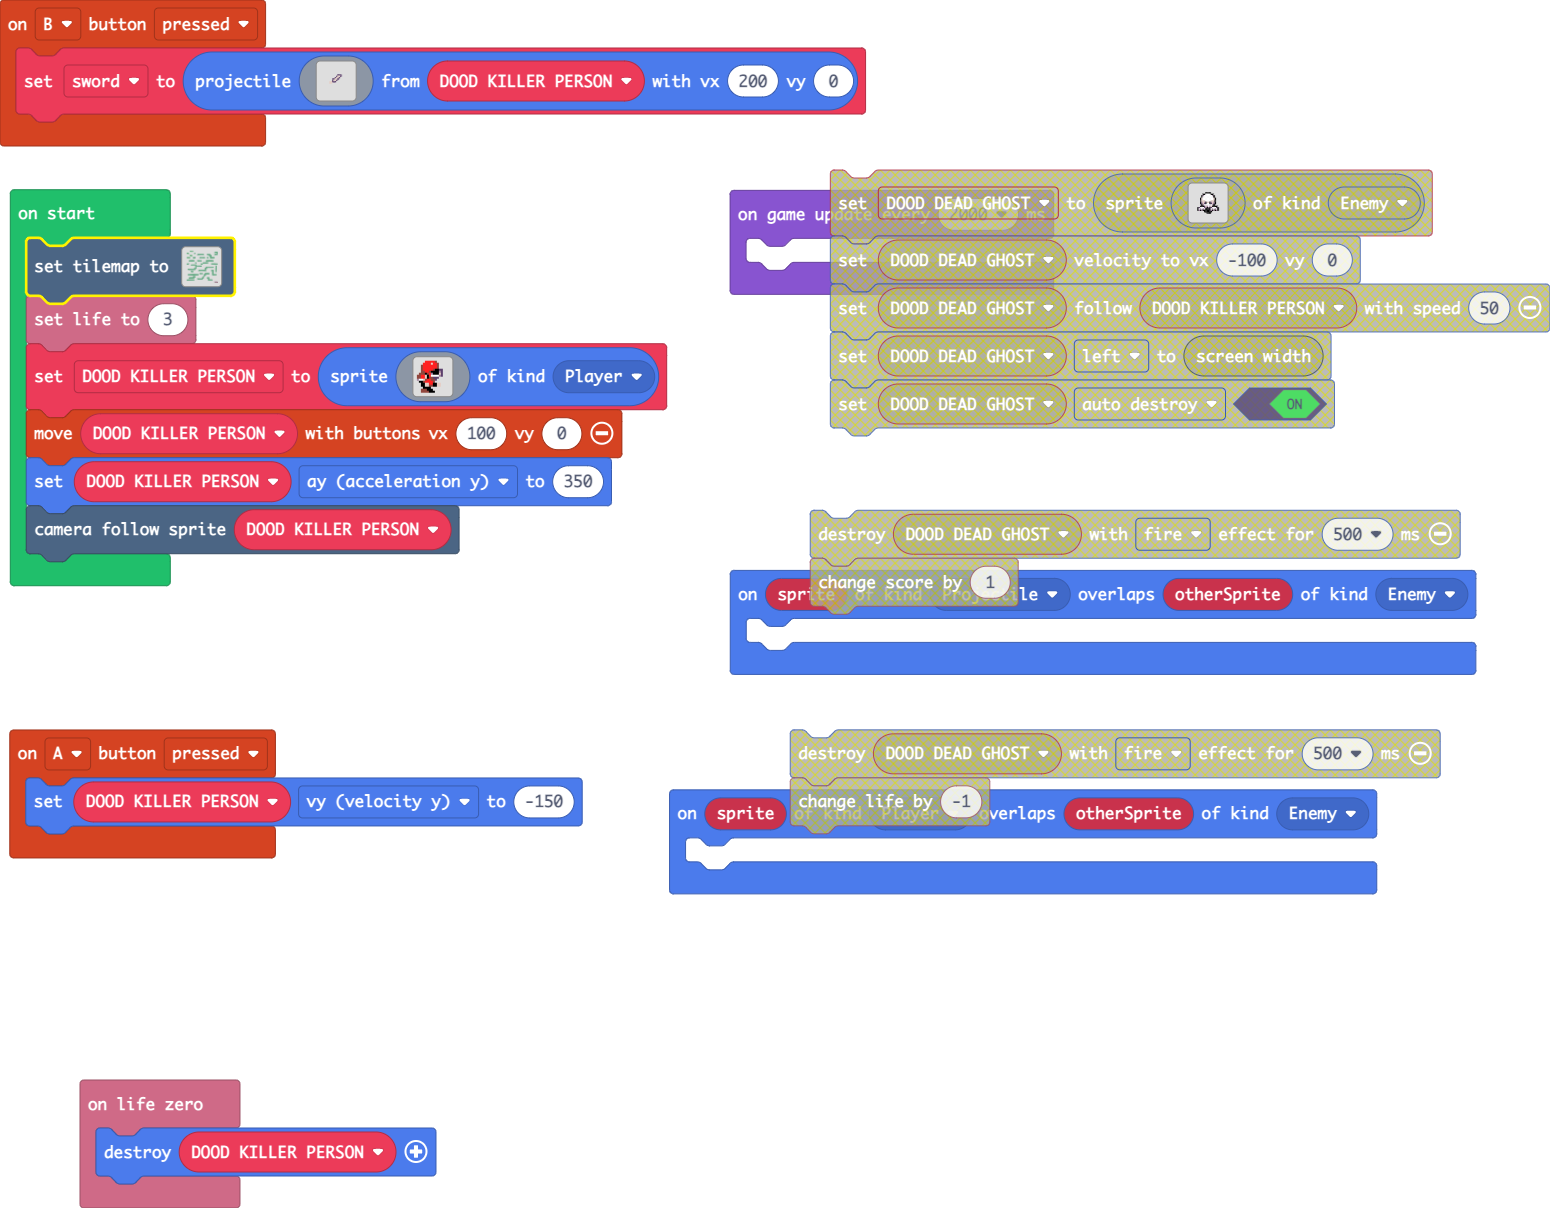
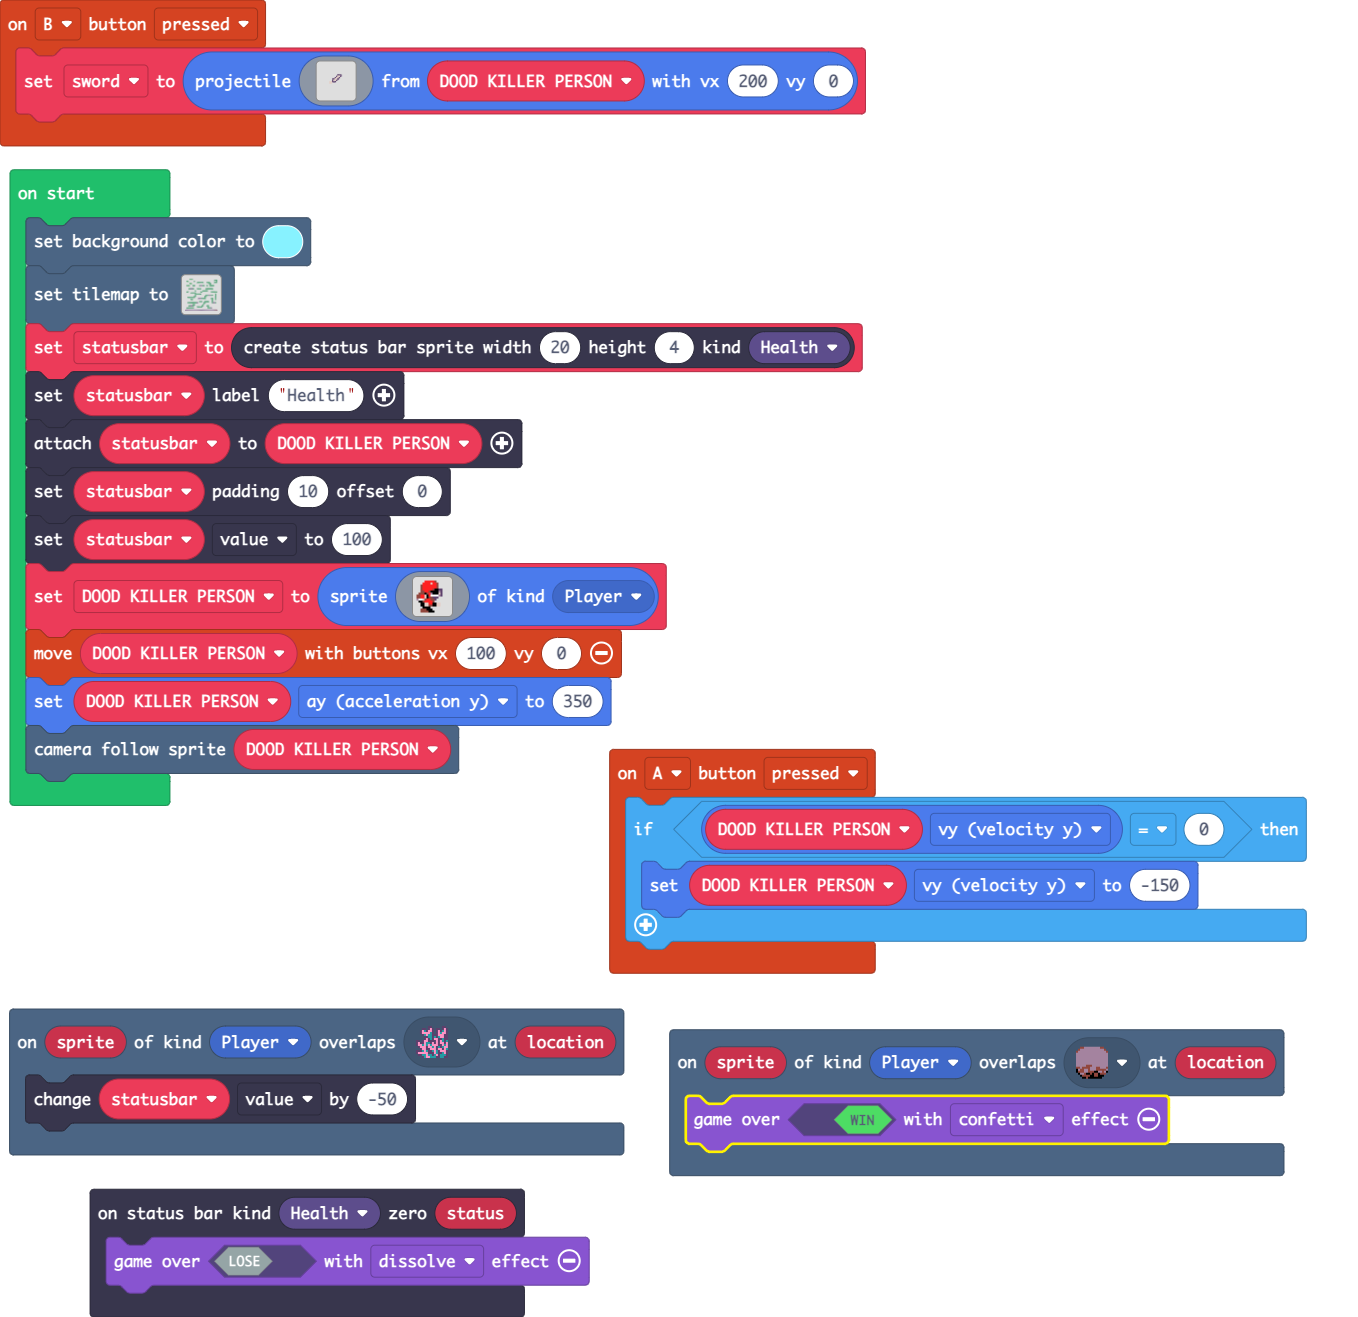
Update pxt.json, main.blocks, main.ts, tilemap.g.jres, tilemap.g.ts, images.g.jres, images.g.ts

diff --git a/tilemap.g.ts b/tilemap.g.ts
@@ -6,38 +6,38 @@ namespace myTiles {
     helpers._registerFactory("tilemap", function(name: string) {
         switch(helpers.stringTrim(name)) {
             case "level1":
[2 lines of base64/hex data omitted]
 ....222.......................
 ...........................222
 .22.....2....................2
-...........222222...222....222
+...........222..2...222....222
 ....22................22......
 .......................2......
-.222...22....22222..2..2222...
+.222...22....2..22..2..2222...
 ..............................
 ..............................
-...22222...2222....2222222....
+...22..2...2222....222........
 ..............................
 .........2......22222.........
 .22...........22........222222
 .....22222....................
-.........222222.............2.
-.........2.........2222222..2.
+.........2..................2.
+.........2.........222..22..2.
 ........22........22........2.
-..2222222.........2.........2.
-............2222222.....22..2.
+..22....2.........2.........2.
+...............2222.....22..2.
 .....22..................2..2.
 .........................2....
-.............222..2222...2....
-..2222222222.....22......2222.
+.............222....22...2....
+..22...222.......2.......2..2.
 .................2............
 .......22.......2.............
-...22222.......22...22........
+...22..2.......22...22........
 ...........22222.....2........
-.2222222.............2222.....
+.2222222.............222......
 ..............................
 ..............................
-`, [myTiles.transparency16,sprites.builtin.forestTiles1,sprites.builtin.forestTiles2,sprites.builtin.forestTiles3,sprites.builtin.forestTiles4,sprites.builtin.forestTiles8], TileScale.Sixteen);
+`, [myTiles.transparency16,sprites.builtin.forestTiles1,sprites.builtin.forestTiles2,sprites.builtin.forestTiles3,sprites.builtin.forestTiles4,sprites.builtin.forestTiles8,sprites.builtin.coral3], TileScale.Sixteen);
         }
         return null;
     })

diff --git a/images.g.ts b/images.g.ts
@@ -3,7 +3,7 @@ namespace myImages {
 
     helpers._registerFactory("image", function(name: string) {
         switch(helpers.stringTrim(name)) {
-            case "image1":return img`
+            case "image5":return img`
 ........................
 ........................
 ........................
@@ -24,6 +24,50 @@ namespace myImages {
 ........................
 ........................
 ........................
+........................
+........................
+........................
+........................
+`;
+            case "image6":return img`
+. . . . 2 2 2 2 2 e . . . . . . 
+. . . 2 2 2 2 d 2 2 e . . . . . 
+. . e 2 2 2 2 2 2 2 e . . . . . 
+. . e 2 2 2 2 2 2 2 e . . . . . 
+. . e 2 2 2 2 2 e f f c c . . . 
+. . e e 2 2 e f f f f b c . . . 
+. e e e f e 2 b f f f d c . . . 
+e e 2 2 d f 2 1 1 1 1 b c . . . 
+e e 2 2 d f e e c c c . . . . . 
+b 1 1 d e 2 2 e e c . . . . . . 
+. f f e 2 2 2 2 e . . . . . . . 
+. . f f d d 2 2 f f d d . . . . 
+. . f f d d e e f f d d . . . . 
+. . . f f f f . . . . . . . . . 
+. . e e e f f f . . . . . . . . 
+. . e e e e f f f . . . . . . . 
+`;
+            case "image1":return img`
+........................
+........................
+........................
+........................
+..........ffff..........
+........ff1111ff........
+.......fb111111bf.......
+.......f11111111f.......
+......fd11111111df......
+......fd11111111df......
+......fddd1111dddf......
+......fbdbfddfbdbf......
+......fcdcf11fcdcf......
+.......fb111111bf.......
+......fffcdb1bdffff.....
+....fc111cbfbfc111cf....
+....f1b1b1ffff1b1b1f....
+....fbfbffffffbfbfbf....
+.........ffffff.........
+...........fff..........
 ........................
 ........................
 ........................
@@ -74,108 +118,22 @@ b 1 1 d e 2 2 e e c . . . . . .
 . . e e e e f f f . . . . . . . 
 `;
             case "image4":return img`
-........................
-........................
-........................
-........................
-........................
-........................
-........................
-.............ccc........
-............cddc........
-...........cddc.........
-.........ccddc..........
-.........cddc...........
-.......ddccc............
-.......dd...............
-........................
-........................
-........................
-........................
-........................
-........................
-........................
-........................
-........................
-........................
-`;
-            case "image5":return img`
-........................
-........................
-........................
-........................
-..........ffff..........
-........ff1111ff........
-.......fb111111bf.......
-.......f11111111f.......
-......fd11111111df......
-......fd11111111df......
-......fddd1111dddf......
-......fbdbfddfbdbf......
-......fcdcf11fcdcf......
-.......fb111111bf.......
-......fffcdb1bdffff.....
-....fc111cbfbfc111cf....
-....f1b1b1ffff1b1b1f....
-....fbfbffffffbfbfbf....
-.........ffffff.........
-...........fff..........
-........................
-........................
-........................
-........................
-`;
-            case "image6":return img`
-......ffff..............
-....fff22fff............
-...fff2222fff...........
-..fffeeeeeefff..........
-..ffe222222eef..........
-..fe2ffffff2ef..........
-..ffffeeeeffff......ccc.
-.ffefbf44fbfeff....cddc.
-.ffefbf44fbfeff...cddc..
-.fee4dddddd4eef.ccddc...
-fdfeeddddd4eeffecddc....
-fbffee4444ee4fddccc.....
-fbf4f222222f1edde.......
-fcf.f222222f44ee........
-.ff.f445544f............
-....ffffffff............
-.....ff..ff.............
-........................
-........................
-........................
-........................
-........................
-........................
-........................
-`;
-            case "image7":return img`
-......ffff..............
-....fff22fff............
-...fff2222fff...........
-..fffeeeeeefff..........
-..ffe222222eef..........
-..fe2ffffff2ef..........
-..ffffeeeeffff......ccc.
-.ffefbf44fbfeff....cddc.
-.ffefbf44fbfeff...cddc..
-.fee4dddddd4eef.ccddc...
-fdfeeddddd4eeffecddc....
-fbffee4444ee4fddccc.....
-fbf4f222222f1edde.......
-fcf.f222222f44ee........
-.ff.f445544f............
-....ffffffff............
-.....ff..ff.............
-........................
-........................
-........................
-........................
-........................
-........................
-........................
+. . . . 2 2 2 2 2 e . . . . . . 
+. . . 2 2 2 2 d 2 2 e . . . . . 
+. . e 2 2 2 2 2 2 2 e . . . . . 
+. . e 2 2 2 2 2 2 2 e . . . . . 
+. . e 2 2 2 2 2 e f f c c . . . 
+. . e e 2 2 e f f f f b c . . . 
+. e e e f e 2 b f f f d c . . . 
+e e 2 2 d f 2 1 1 1 1 b c . . . 
+e e 2 2 d f e e c c c . . . . . 
+b 1 1 d e 2 2 e e c . . . . . . 
+. f f e 2 2 2 2 e . . . . . . . 
+. . f f d d 2 2 f f d d . . . . 
+. . f f d d e e f f d d . . . . 
+. . . f f f f . . . . . . . . . 
+. . e e e f f f . . . . . . . . 
+. . e e e e f f f . . . . . . . 
 `;
         }
         return null;

diff --git a/main.ts b/main.ts
@@ -1,3 +1,6 @@
+scene.onOverlapTile(SpriteKind.Player, sprites.builtin.coral3, function (sprite, location) {
+    statusbar.value += -50
+})
 controller.B.onEvent(ControllerButtonEvent.Pressed, function () {
     sword = sprites.createProjectileFromSprite(img`
         ........................
@@ -27,21 +30,26 @@ controller.B.onEvent(ControllerButtonEvent.Pressed, function () {
         `, DOOD_KILLER_PERSON, 200, 0)
 })
 controller.A.onEvent(ControllerButtonEvent.Pressed, function () {
-    DOOD_KILLER_PERSON.vy = -150
+    if (DOOD_KILLER_PERSON.vy == 0) {
+        DOOD_KILLER_PERSON.vy = -150
+    }
 })
-info.onLifeZero(function () {
-    DOOD_KILLER_PERSON.destroy()
+statusbars.onZero(StatusBarKind.Health, function (status) {
+    game.over(false, effects.dissolve)
 })
-sprites.onOverlap(SpriteKind.Projectile, SpriteKind.Enemy, function (sprite, otherSprite) {
-	
-})
-sprites.onOverlap(SpriteKind.Player, SpriteKind.Enemy, function (sprite, otherSprite) {
-	
+scene.onOverlapTile(SpriteKind.Player, sprites.builtin.forestTiles8, function (sprite, location) {
+    game.over(true, effects.confetti)
 })
 let sword: Sprite = null
 let DOOD_KILLER_PERSON: Sprite = null
+let statusbar: StatusBarSprite = null
+scene.setBackgroundColor(9)
 tiles.setTilemap(tilemap`level1`)
-info.setLife(3)
+statusbar = statusbars.create(20, 4, StatusBarKind.Health)
+statusbar.setLabel("Health")
+statusbar.attachToSprite(DOOD_KILLER_PERSON)
+statusbar.setOffsetPadding(0, 10)
+statusbar.value = 100
 DOOD_KILLER_PERSON = sprites.create(img`
     . . . . 2 2 2 2 2 e . . . . . . 
     . . . 2 2 2 2 d 2 2 e . . . . . 
@@ -63,6 +71,3 @@ DOOD_KILLER_PERSON = sprites.create(img`
 controller.moveSprite(DOOD_KILLER_PERSON, 100, 0)
 DOOD_KILLER_PERSON.ay = 350
 scene.cameraFollowSprite(DOOD_KILLER_PERSON)
-game.onUpdateInterval(2000, function () {
-	
-})
